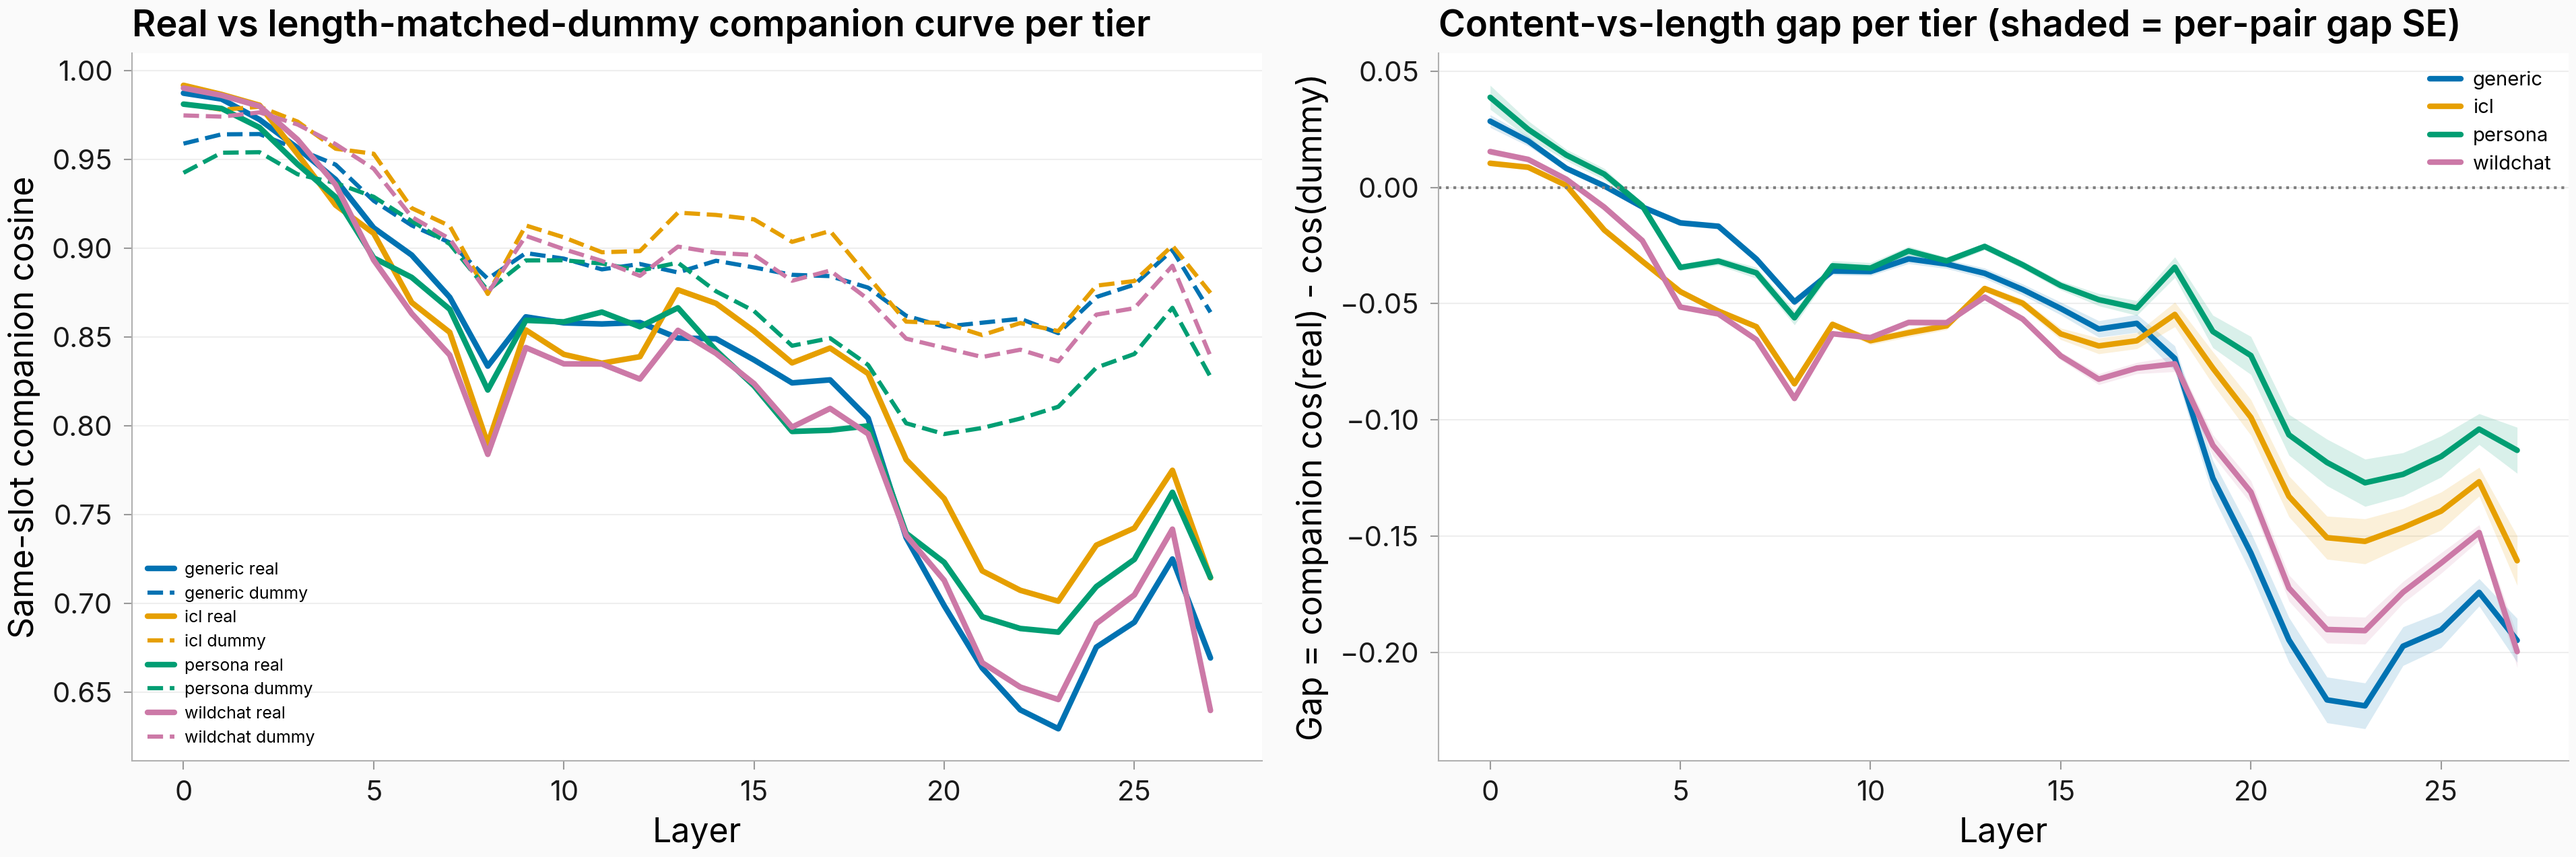
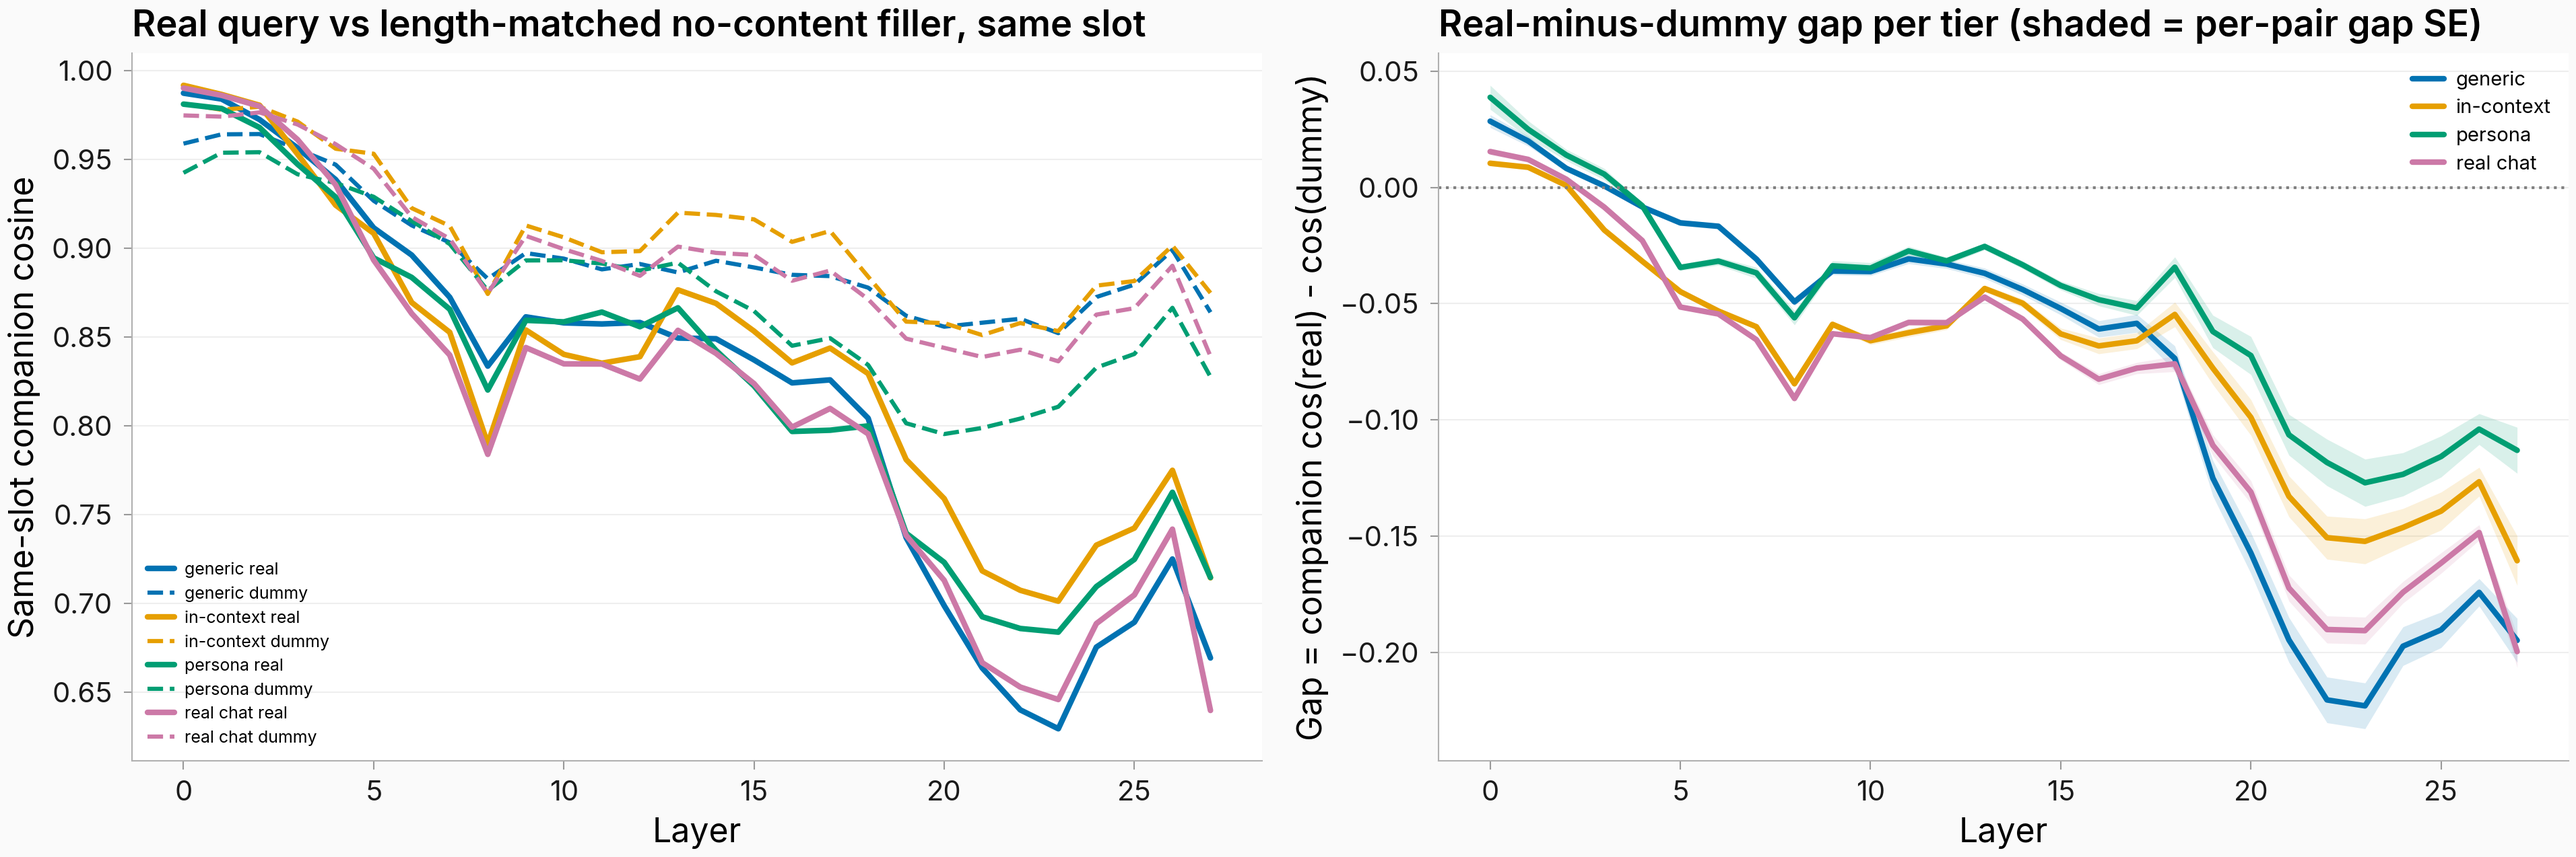
issue #654 round-2 interp v6: neutral figure titles + plain-English legend for length-matched dummy control

diff --git a/scripts/issue654_analyze.py b/scripts/issue654_analyze.py
@@ -790,32 +790,46 @@ def make_companion_gap_figure(gap: dict, layers: list[int], fig_dir: str) -> Non
     tiers = sorted(gap["per_tier"].keys())
     colors = paper_palette(min(max(len(tiers), 1), 8))
 
+    # Plain-English tier labels for legends (paper-plots §3.5).
+    tier_label = {
+        "generic": "generic",
+        "icl": "in-context",
+        "persona": "persona",
+        "wildchat": "real chat",
+    }
+
     fig, (ax_curves, ax_gap) = plt.subplots(1, 2, figsize=(13, 4.5))
     real_cos = gap["companion_cos_real_per_tier"]
     dummy_cos = gap["companion_cos_dummy_per_tier"]
     for ci, t in enumerate(tiers):
         col = colors[ci % len(colors)]
+        lbl = tier_label.get(t, t)
         if t in real_cos:
-            ax_curves.plot(layers, real_cos[t], label=f"{t} real", color=col, linewidth=2)
+            ax_curves.plot(layers, real_cos[t], label=f"{lbl} real", color=col, linewidth=2)
         if t in dummy_cos:
             ax_curves.plot(
-                layers, dummy_cos[t], label=f"{t} dummy", color=col, linewidth=1.5, linestyle="--"
+                layers,
+                dummy_cos[t],
+                label=f"{lbl} dummy",
+                color=col,
+                linewidth=1.5,
+                linestyle="--",
             )
     ax_curves.set_xlabel("Layer")
     ax_curves.set_ylabel("Same-slot companion cosine")
-    ax_curves.set_title("Real vs length-matched-dummy companion curve per tier")
+    ax_curves.set_title("Real query vs length-matched no-content filler, same slot")
     ax_curves.legend(loc="best", fontsize=6)
 
     for ci, t in enumerate(tiers):
         col = colors[ci % len(colors)]
         g = np.array(gap["per_tier"][t]["gap_mean"])
         se = np.array(gap["per_tier"][t]["gap_se"])
-        ax_gap.plot(layers, g, label=t, color=col, linewidth=2)
+        ax_gap.plot(layers, g, label=tier_label.get(t, t), color=col, linewidth=2)
         ax_gap.fill_between(layers, g - se, g + se, color=col, alpha=0.15)
     ax_gap.axhline(0.0, color="grey", linewidth=1, linestyle=":")
     ax_gap.set_xlabel("Layer")
     ax_gap.set_ylabel("Gap = companion cos(real) - cos(dummy)")
-    ax_gap.set_title("Content-vs-length gap per tier (shaded = per-pair gap SE)")
+    ax_gap.set_title("Real-minus-dummy gap per tier (shaded = per-pair gap SE)")
     ax_gap.legend(loc="best", fontsize=7)
     fig.tight_layout()
     savefig_paper(fig, "issue_654/query_content_vs_length_gap_blog", dir=fig_dir)
